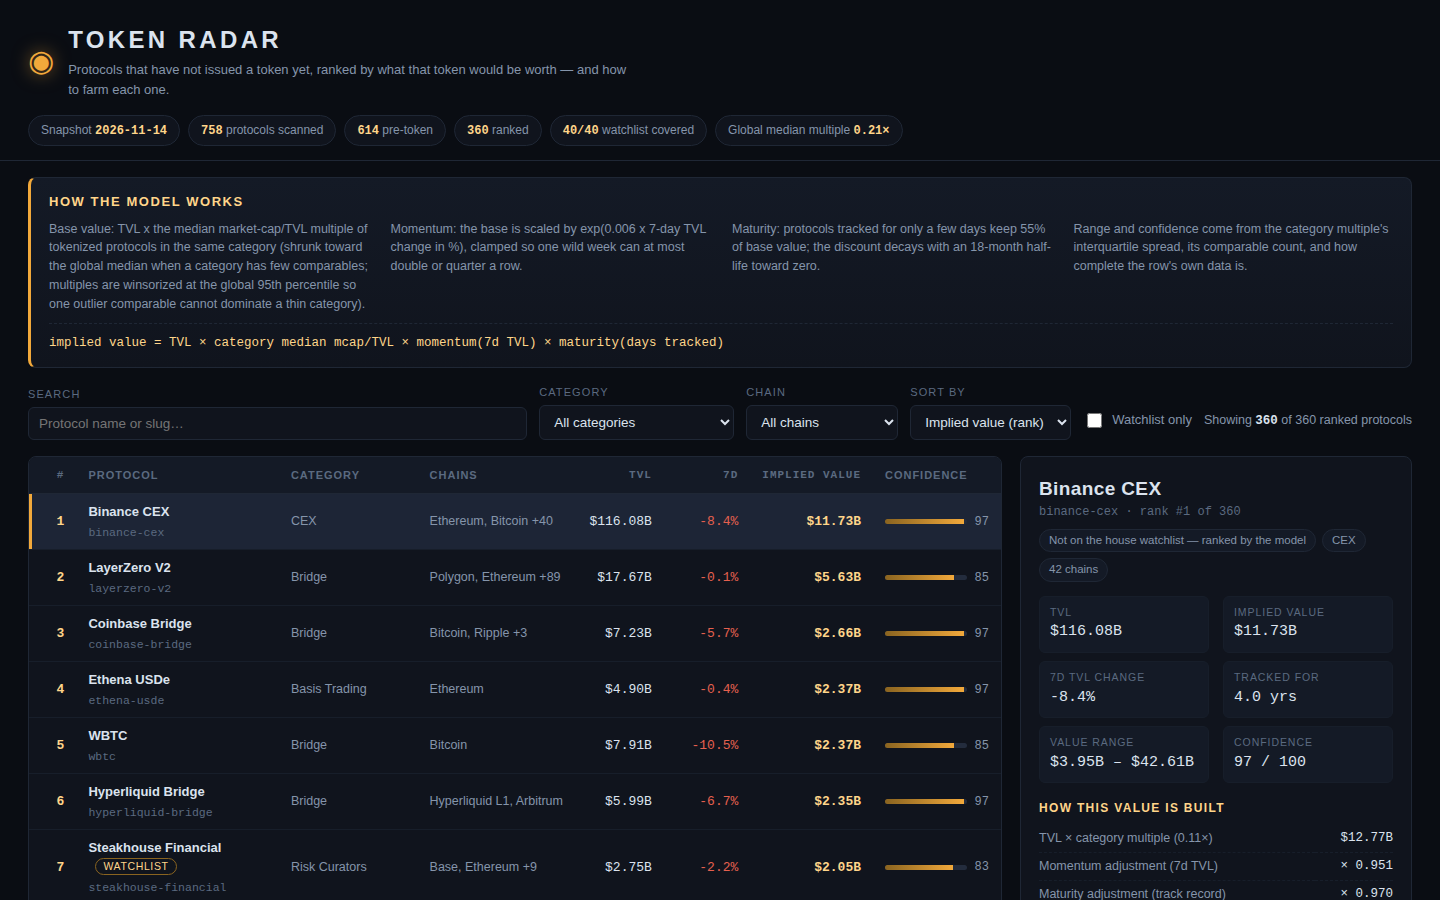
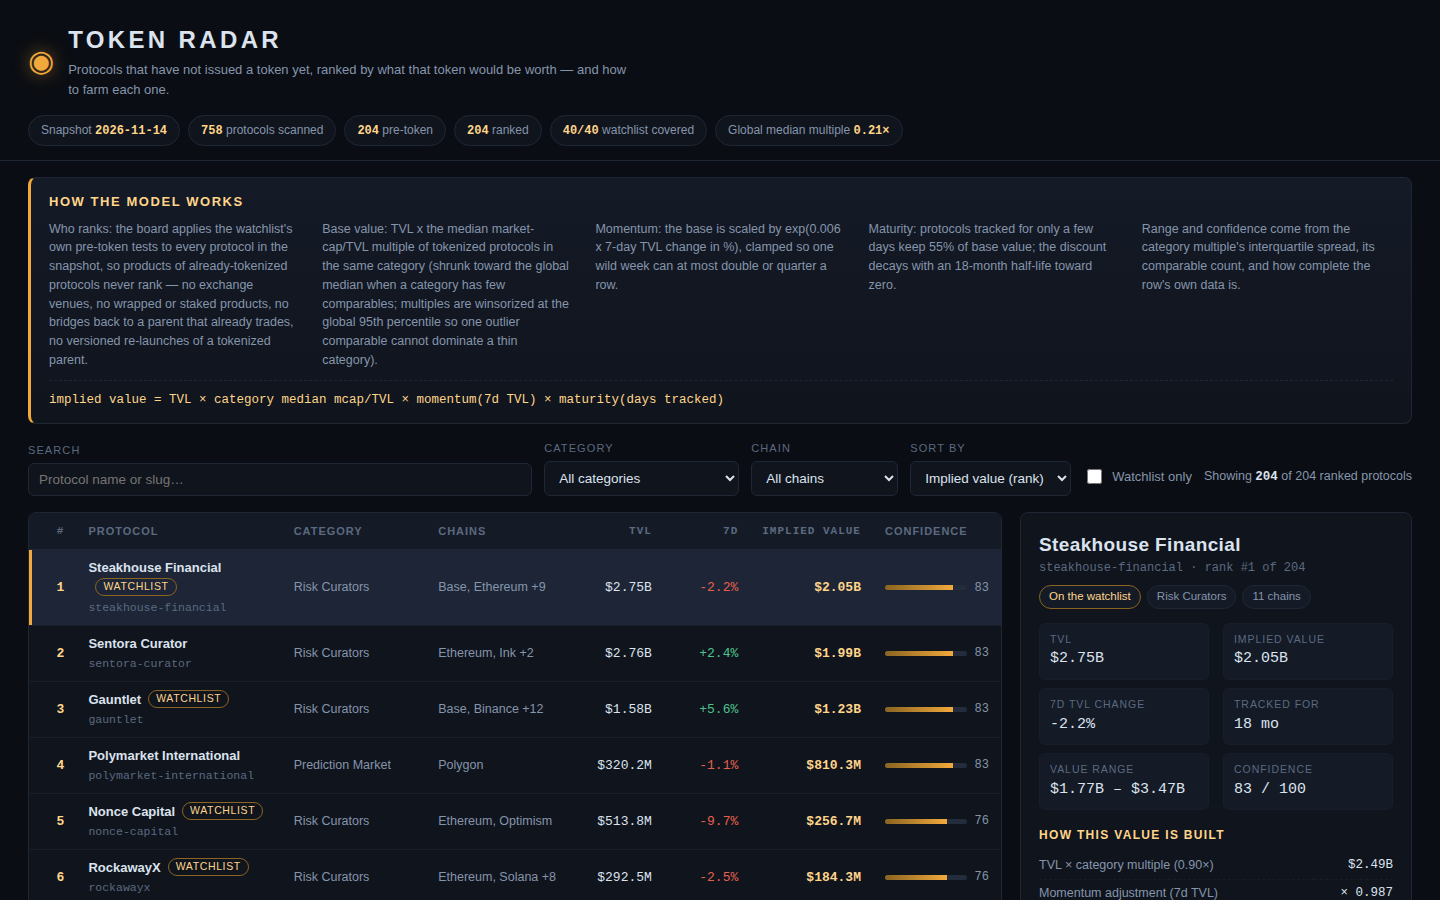
Fix the board's universe: apply the watchlist's pre-token tests to the whole snapshot
The board ranked every protocol with a null market cap, which put products
of already-tokenized protocols on top (Binance CEX, LayerZero V2, Coinbase
Bridge, Ethena USDe, WBTC). Rows must now pass isPreToken: no recorded
token, no Bridge/Canonical Bridge/Liquid Staking/Liquid Restaking/
Restaked BTC/CEX category, no version-marker name suffix, no whole word
wrapped/staked/staking in the name, and no exchange name up front. All
204 protocols passing the tests rank (no cap, no TVL floor), watchlist
coverage stays 40/40, boardIssue enforces the same definition, and the
model panel states it. Screenshots regenerated: new board top, Polymarket
International detail, Risk Curators watchlist-only filter.

diff --git a/lib/model.ts b/lib/model.ts
@@ -7,8 +7,20 @@
 // factors the snapshot itself supplies: a momentum factor from the protocol's
 // 7-day TVL change, and a maturity factor from how long the protocol has been
 // tracked. A confidence score and a value range (from the category's interquartile
-// multiples) say how much to trust each row. Nothing is keyed to a protocol's name:
-// every figure below is computed from the snapshot's own fields.
+// multiples) say how much to trust each row. Nothing in the valuation is keyed to
+// a protocol's name: every figure below is computed from the snapshot's own fields.
+//
+// The board's universe is the watchlist's own definition of pre-token, applied to
+// the whole snapshot rather than only above its TVL floor: a protocol ranks only
+// when it records no token (market cap, gecko id and symbol all null), its
+// category is not one of products of already-tokenized protocols (Bridge,
+// Canonical Bridge, Liquid Staking, Liquid Restaking, Restaked BTC, CEX), its
+// name ends in no version marker (a space followed by V2, v2 or 2.0), carries no
+// whole word wrapped, staked or staking, and does not begin with an exchange's
+// name (Binance, Coinbase, Bybit, Kraken, Bitget, OKX, Bitfinex, Gemini).
+// Products of protocols whose token already trades — an exchange's own venue, a
+// wrapped bitcoin, a bridge back to a tokenized parent — therefore never rank:
+// this radar prices only tokens that are still to come.
 //
 // Exports match main.ts: parseSnapshot, buildRadar, boardIssue, dataScript.
 
@@ -94,6 +106,33 @@ function ageInDays(listedAt: string | null, asOf: string): number | null {
   const a = Date.parse(asOf);
   if (Number.isNaN(t) || Number.isNaN(a)) return null;
   return Math.max(0, Math.round((a - t) / DAY_MS));
+}
+
+// ---------------------------------------------------------------------------
+// The board's universe: which protocols count as pre-token.
+
+const TOKEN_PRODUCT_CATEGORIES: ReadonlySet<string> = new Set([
+  'Bridge', 'Canonical Bridge', 'Liquid Staking', 'Liquid Restaking', 'Restaked BTC', 'CEX',
+]);
+
+const EXCHANGE_NAME = /^(Binance|Coinbase|Bybit|Kraken|Bitget|OKX|Bitfinex|Gemini)\b/;
+const VERSION_SUFFIX = / (V2|v2|2\.0)$/;
+const WRAPPED_OR_STAKED_WORD = /\b(wrapped|staked|staking)\b/i;
+
+/**
+ * The watchlist's own pre-token tests, applied to any protocol in the snapshot:
+ * it records no token, its category is not one of wrapped, staked, bridged or
+ * exchange products of an already-tokenized protocol, and its name carries none
+ * of the markers of one — no version suffix, no wrapped/staked/staking word, no
+ * exchange's name up front.
+ */
+export function isPreToken(p: Protocol): boolean {
+  if (p.mcap_usd !== null || p.gecko_id !== null || p.symbol !== null) return false;
+  if (p.category !== null && TOKEN_PRODUCT_CATEGORIES.has(p.category)) return false;
+  if (VERSION_SUFFIX.test(p.name)) return false;
+  if (WRAPPED_OR_STAKED_WORD.test(p.name)) return false;
+  if (EXCHANGE_NAME.test(p.name)) return false;
+  return true;
 }
 
 // ---------------------------------------------------------------------------
@@ -351,20 +390,16 @@ export interface Radar {
   model_notes: string[];
 }
 
-const MIN_TVL_FOR_BOARD = 2_500_000;
-const MAX_ROWS = 360;
-
 /** Score every pre-token protocol and rank the board by implied value. */
 export function buildRadar(snapshot: Snapshot): { board: BoardRow[]; radar: Radar } {
   const index = buildCompIndex(snapshot);
   const watchlist = new Set(snapshot.watchlist);
-  const preToken = snapshot.protocols.filter((p) => p.mcap_usd === null);
+  const preToken = snapshot.protocols.filter(isPreToken);
   const live = snapshot.protocols.filter((p) => p.mcap_usd !== null);
 
   const scored: RadarRow[] = [];
   for (const p of preToken) {
     const onWatchlist = watchlist.has(p.slug);
-    if (!onWatchlist && p.tvl_usd < MIN_TVL_FOR_BOARD) continue;
     const blend = blendedMultiple(index, p.category);
     const age = ageInDays(p.listed_at, snapshot.as_of);
     const momentum = momentumFactor(p.change_7d);
@@ -402,17 +437,10 @@ export function buildRadar(snapshot: Snapshot): { board: BoardRow[]; radar: Rada
   }
 
   // Rank by implied value; deterministic tie-breaks keep both runs identical.
+  // Every protocol that passes the pre-token tests ranks — no cap and no TVL
+  // floor — so no watchlist protocol can fall off the board.
   scored.sort((a, b) => b.implied_value_usd - a.implied_value_usd || b.tvl_usd - a.tvl_usd || (a.slug < b.slug ? -1 : 1));
-  const kept = scored.slice(0, MAX_ROWS);
-  // A capped board must never drop a watchlist protocol: swap any missing one in.
-  const keptSlugs = new Set(kept.map((r) => r.slug));
-  for (const row of scored) {
-    if (row.watchlist && !keptSlugs.has(row.slug)) {
-      kept[kept.length - 1] = row;
-      keptSlugs.add(row.slug);
-    }
-  }
-  kept.sort((a, b) => b.implied_value_usd - a.implied_value_usd || b.tvl_usd - a.tvl_usd || (a.slug < b.slug ? -1 : 1));
+  const kept = scored;
   kept.forEach((row, i) => { row.rank = i + 1; });
 
   const board: BoardRow[] = kept.map((r) => ({
@@ -436,6 +464,7 @@ export function buildRadar(snapshot: Snapshot): { board: BoardRow[]; radar: Rada
     categories: [...new Set(kept.map((r) => r.category ?? 'Uncategorized'))].sort(),
     chains: [...new Set(kept.flatMap((r) => r.chains))].sort(),
     model_notes: [
+      'Who ranks: the board applies the watchlist\'s own pre-token tests to every protocol in the snapshot, so products of already-tokenized protocols never rank — no exchange venues, no wrapped or staked products, no bridges back to a parent that already trades, no versioned re-launches of a tokenized parent.',
       'Base value: TVL x the median market-cap/TVL multiple of tokenized protocols in the same category (shrunk toward the global median when a category has few comparables; multiples are winsorized at the global 95th percentile so one outlier comparable cannot dominate a thin category).',
       'Momentum: the base is scaled by exp(0.006 x 7-day TVL change in %), clamped so one wild week can at most double or quarter a row.',
       'Maturity: protocols tracked for only a few days keep 55% of base value; the discount decays with an 18-month half-life toward zero.',
@@ -463,7 +492,7 @@ export function boardIssue(board: BoardRow[], snapshot: Snapshot): string | null
     seen.add(row.slug);
     const proto = bySlug.get(row.slug);
     if (proto === undefined) return `slug ${row.slug} is not in the snapshot`;
-    if (proto.mcap_usd !== null) return `slug ${row.slug} already records a token`;
+    if (!isPreToken(proto)) return `slug ${row.slug} is not pre-token under the board's definition`;
     if (!Number.isInteger(row.implied_value_usd) || row.implied_value_usd <= 0) return `row ${row.slug}: implied value is not a positive whole number`;
     if (row.implied_value_usd > previous) return `row ${row.slug}: implied value rises as rank ascends`;
     if (firstValue === null) firstValue = row.implied_value_usd;
